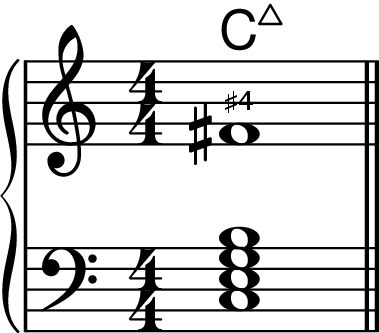
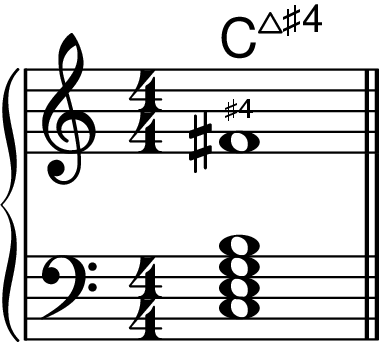
Fix Δ♯4 chords

diff --git a/music/notes.md b/music/notes.md
@@ -10,6 +10,7 @@
 * [chord name suffixes](https://lilypond.org/doc/v2.25/Documentation/notation/common-chord-modifiers)
   - `:min7.5-` for half-diminished
   - `:maj7.3-` for minor-major
+  - `:maj7.11+` for Δ♯4
 * `\tuplet 3/2 { a b c}` for tuplets
 * append `\noBeam` to get a flag not a beam
 * prepend `\tieUp` to adjust direction of tie
